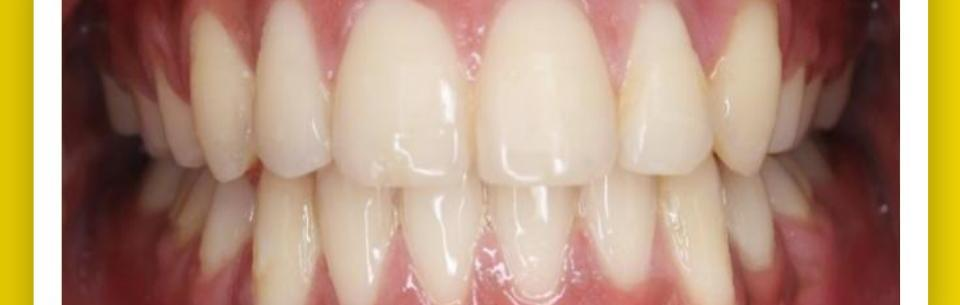
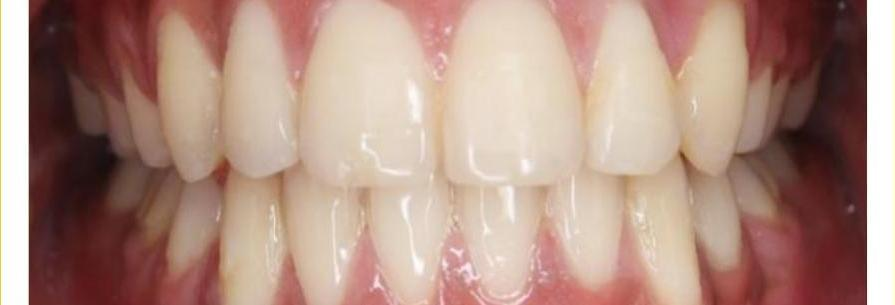
Trim vertical yellow/white borders from Slide 22 teeth images and add cache-buster version parameter to images

diff --git a/dr-abin-website/cases.html b/dr-abin-website/cases.html
@@ -985,7 +985,7 @@
                   <div class="case-single-layout" style="margin-bottom: 1.5rem;">
                     <div class="single-image-container treatment-images-grid">
                       ${sec.top.images.map(img => `
-                        <img src="./assets/cases_new/${img}" alt="Top Detail" loading="lazy" onclick="openLightbox('./assets/cases_new/${img}')">
+                        <img src="./assets/cases_new/${img}?v=2" alt="Top Detail" loading="lazy" onclick="openLightbox('./assets/cases_new/${img}?v=2')">
                       `).join('')}
                     </div>
                   </div>
@@ -1003,7 +1003,7 @@
                         <h4 class="treatment-title" style="font-size: 0.95rem; line-height: 1.3;">${col.heading}</h4>
                         <div class="treatment-images-grid">
                           ${col.images.map(img => `
-                            <img src="./assets/cases_new/${img}" alt="${col.heading} Detail" loading="lazy" onclick="openLightbox('./assets/cases_new/${img}')">
+                            <img src="./assets/cases_new/${img}?v=2" alt="${col.heading} Detail" loading="lazy" onclick="openLightbox('./assets/cases_new/${img}?v=2')">
                           `).join('')}
                         </div>
                       </div>
@@ -1023,7 +1023,7 @@
                     ${headingHTML}
                     <div class="treatment-images-grid" style="${flexStyle}">
                       ${sec.bottom.images.map(img => `
-                        <img src="./assets/cases_new/${img}" alt="Bottom Detail" loading="lazy" onclick="openLightbox('./assets/cases_new/${img}')" style="${imgStyle}">
+                        <img src="./assets/cases_new/${img}?v=2" alt="Bottom Detail" loading="lazy" onclick="openLightbox('./assets/cases_new/${img}?v=2')" style="${imgStyle}">
                       `).join('')}
                     </div>
                   </div>
@@ -1037,7 +1037,7 @@
             contentHTML += `
               <div class="case-single-layout">
                 <div class="single-image-container treatment-images-grid">
-                  <img src="./assets/cases_new/${item.images[0]}" alt="${item.title}" loading="lazy" onclick="openLightbox('./assets/cases_new/${item.images[0]}')">
+                  <img src="./assets/cases_new/${item.images[0]}?v=2" alt="${item.title}" loading="lazy" onclick="openLightbox('./assets/cases_new/${item.images[0]}?v=2')">
                 </div>
               </div>
             `;